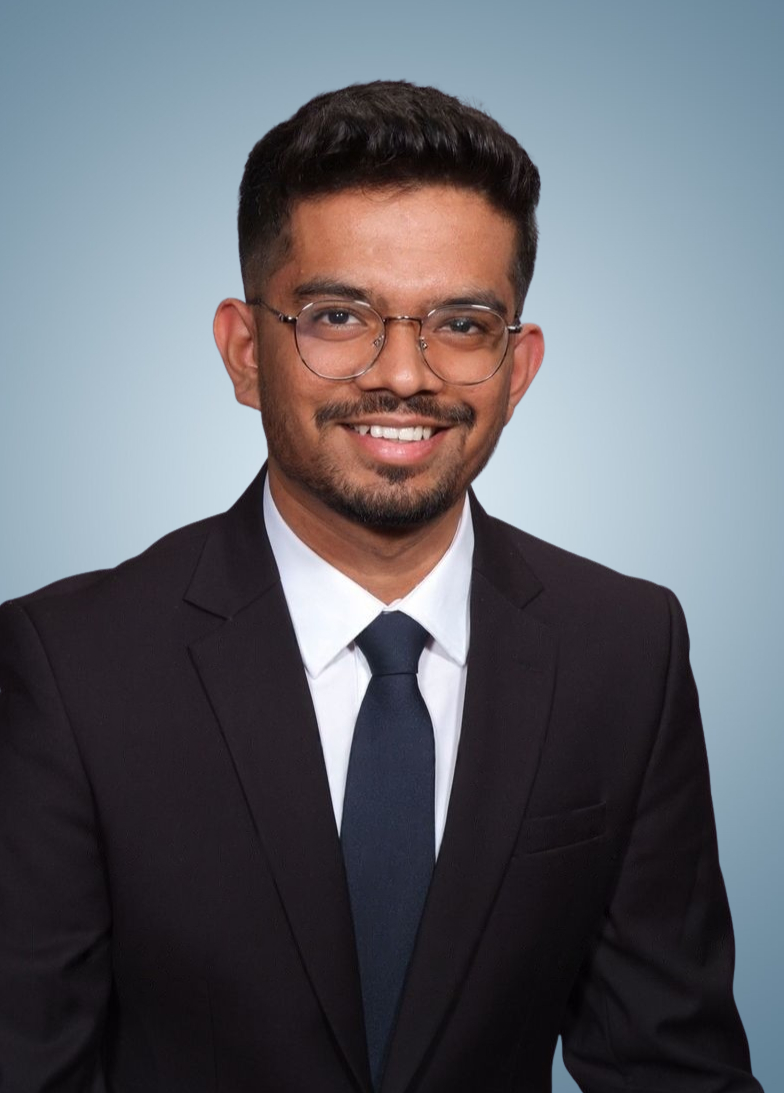
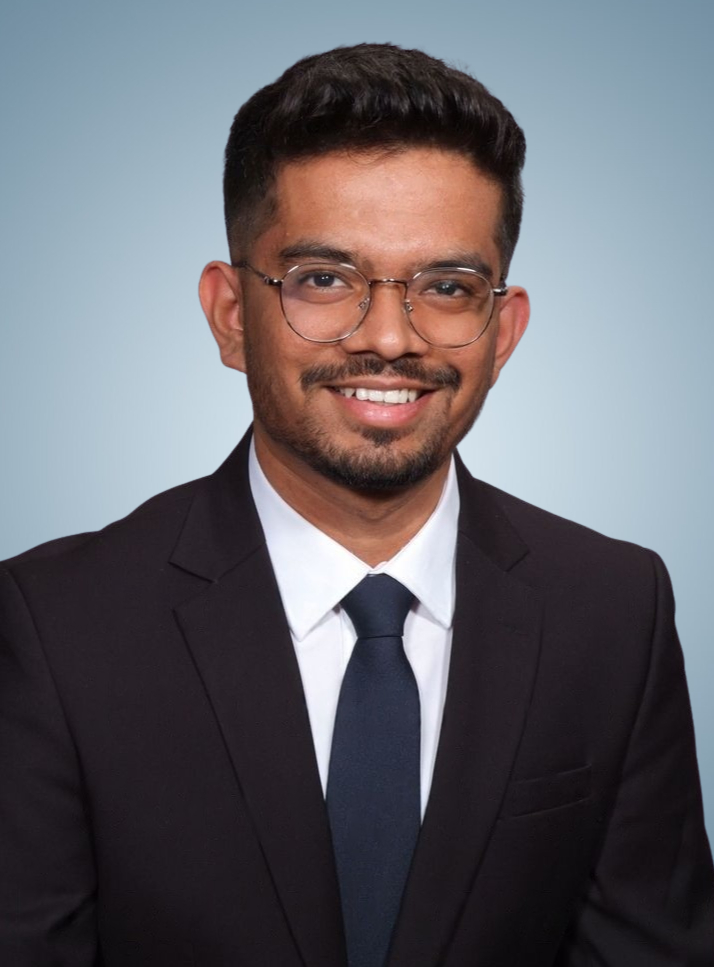
about

diff --git a/src/components/About/about.css b/src/components/About/about.css
@@ -1,131 +1,112 @@
 .a {
   display: flex;
-  align-items: normal;
+  align-items: center;
+  justify-content: center;
   height: 100vh;
-  padding: 50px 100px;
+  padding: 50px 80px;
   background-color: #f9f9f9;
-
+  gap: 50px; /* Added gap for better spacing */
 }
 
 .a-left {
   display: flex;
   flex: 1;
   justify-content: center;
+  align-items: center;
+}
+
+.a-right {
+  flex: 1;
+  padding: 20px;
+  display: flex;
+  flex-direction: column;
+  justify-content: center;
 }
 
 .a-title {
   font-size: 50px;
   font-weight: 600;
+  margin-bottom: 15px;
 }
 
 .a-sub {
   color: rgb(69, 69, 69);
   font-size: 20px;
   font-weight: 600;
+  margin-bottom: 10px;
 }
 
-
-
-.a-right {
-  position: relative;
-  top: 13%;
-  flex: 1;
-  padding: 20px;
+.a-desc {
+  font-size: 16px;
+  color: #444;
+  line-height: 1.6;
 }
 
-.a-card {
-  width: 60%;
-  height: 70vh;
-  border-radius: 30px;
-  position: relative;
-  overflow: hidden;
-}
-
+/* Adjusted Image Size */
 .a-img {
-  position: relative;
-  height:310px;
-  width: 420px;
+  height: 375px; 
+  width: 525px;  
   border-radius: 25px;
-  top:20%;
+  object-fit: cover; 
 }
 
-
-
-
-
-
-
-/*             768px                */
-
-@media screen and (max-width:768px) {
-  .a{
-    display: flex;
-    flex-direction: column-reverse;
-  }
-  .a-right {
-    top: 0;
-    padding: 15px 20px;
-    text-align: center;
-  }
-
-  .a-img{
-    height: 230px;
-    width: 350px;
-    top: 0%;
-  }
-
-
+/* Responsive Design - Tablet */
+@media screen and (max-width: 1024px) {
   .a {
-    padding: 20px;
-  }
-
-
-}
-
-
-
-
-
-
-
-@media screen and (max-width:480px) {
-  .a {
-    flex-direction: column-reverse;
-    text-align: center;
-    padding: 20px;
-  }
-
-
-  .a-card {
-    height: 100%;
-  }
-
-  .a-card.bg,
-  .a-award {
-    display: none;
-  }
-
-  .a-right {
-    display: flex;
     flex-direction: column;
-    top: 0;
+    height: auto;
+    padding: 40px;
+    gap: 30px;
   }
 
-  .a-title{
-    margin: 15px 0px;
+  .a-left, .a-right {
+    flex: none;
+    width: 100%;
+    text-align: center;
+  }
+
+  .a-img {
+    height: 320px;
+    width: 450px;
+  }
+}
+
+/* Responsive Design - Mobile */
+@media screen and (max-width: 768px) {
+  .a {
+    padding: 20px;
   }
 
   .a-title {
-    font-weight: 600;
-    font-size: 50px
+    font-size: 40px;
   }
 
-
-
-  .a-desc,
   .a-sub {
-    font-size: 13px;
-    margin: 5px;
+    font-size: 18px;
   }
 
+  .a-desc {
+    font-size: 14px;
+  }
+
+  .a-img {
+    height: 270px;
+    width: 400px;
+  }
+}
+
+/* Small Mobile */
+@media screen and (max-width: 480px) {
+  .a {
+    padding: 15px;
+  }
+
+  .a-title {
+    font-size: 36px;
+  }
+
+  .a-img {
+    height: 240px;
+    width: 350px;
+  }
 }

diff --git a/src/components/About/About.jsx b/src/components/About/About.jsx
@@ -5,20 +5,30 @@ import about from '../../images/about.png'
 export default function About() {
   return (
     <section id="About">
-    <div className='a'>
-      <div className="a-left">
-        <div className="a-bg">
-        <img src={about} className="a-img" />
+      <div className='a'>
+        <div className="a-left">
+          <div className="a-bg">
+            <img src={about} className="a-img" alt="About Me" />
+          </div>
+        </div>
+
+        <div className="a-right">
+          <h1 className='a-title'>About</h1>
+          <p className='a-sub'>Hey, my name is Swapnaroop and I am a Full Stack Developer. My passion is to craft seamless, user-centric websites and applications.</p>
+          <p className='a-desc'>
+            I completed my undergraduate studies in Computer Engineering at Mumbai University. Currently, I am pursuing an MS in Computer Science at Stevens Institute of Technology.
+          </p>
+          <p className='a-desc'>
+            👨💻 Emerging Full-Stack Software Engineer with a strong foundation in building scalable and efficient applications.
+          </p>
+          <p className='a-desc'>
+            🛠 Proficient in React.js, Next.js, Node.js, Express.js, Java, Spring Boot, PostgreSQL, MongoDB, and AWS. Passionate about developing responsive, secure, and scalable web applications while embracing agile methodologies and test-driven development.
+          </p>
+          <p className='a-desc'>
+            🎯 Passionate about continuous learning, I’m excited to explore emerging areas in cloud-native applications, AI, and distributed systems. Let’s connect and collaborate on innovative projects!
+          </p>
         </div>
       </div>
-
-      <div className="a-right">
-        <h1 className='a-title'>About</h1>
-        <p className='a-sub'>Hey, my name is Swapnaroop and I am Full Stack Developer. My passion is to craft seamless, user-centric websites or apps.</p>
-        <p className='a-desc'>I Completed my undergrad studies in Computer Engineering at Mumbai University. Currently I am pursuing MS in Computer Science at Stevens Institute of Technology maintaining GPA <b>4.00</b>. </p>
-        
-      </div>
-    </div>
     </section>
   )
 }
